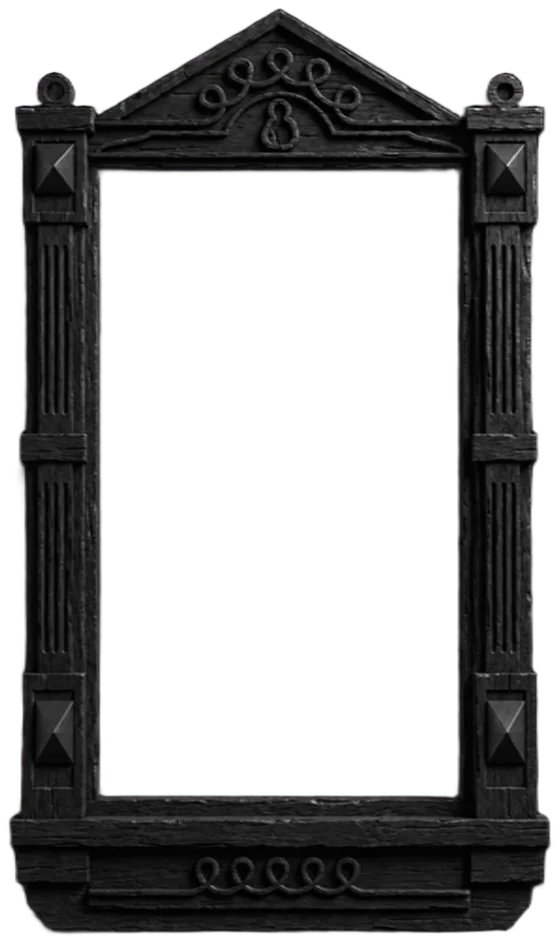
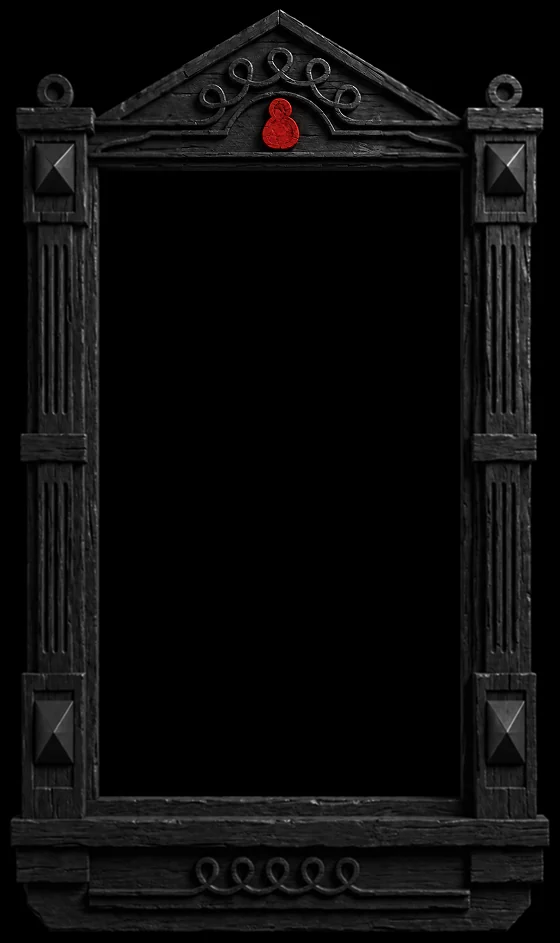
Ба: новый наличник и подпись, подписи у круга после узора, ветер вокруг цитаты

diff --git a/shh-creative/ba.html b/shh-creative/ba.html
@@ -631,14 +631,89 @@ window.addEventListener('message',function(e){if(!e.data||!e.data.lang)return;us
     #rec-ba-quote { padding: 90px 20px; }
     #rec-ba-quote .q-author { margin-top: 28px; }
   }
+
+  /* ── Ветер над цитатой и под ней ──
+     Тонкие красные линии с петлями — те же завихрения, что в узоре и на наличнике.
+     Анимация как trim path: по линии пролетает отрезок — вырастает,
+     скользит и сходит на нет. pathLength="1" делает длины в dasharray
+     долями пути, поэтому одни ключевые кадры годятся для любой линии.
+     Порывы разной длины и с разными паузами, чтобы не шли в ногу.
+     Крутится только пока секция в кадре (класс wind-on вешает скрипт). */
+  #rec-ba-quote { position: relative; overflow: hidden; }
+  #rec-ba-quote .q-wind {
+    position: absolute;
+    left: 0;
+    width: 100%;
+    height: auto;
+    pointer-events: none;
+    /* к краям линии растворяются: порыв приходит из-за экрана */
+    -webkit-mask-image: linear-gradient(90deg, transparent, #000 14%, #000 86%, transparent);
+            mask-image: linear-gradient(90deg, transparent, #000 14%, #000 86%, transparent);
+  }
+  #rec-ba-quote .q-wind-top { top: -12px; }
+  #rec-ba-quote .q-wind-bot { bottom: -12px; }
+  #rec-ba-quote .q-wind path {
+    fill: none;
+    stroke: #e42322;
+    stroke-opacity: 0.85;
+    stroke-width: 1.2;
+    stroke-linecap: round;
+    vector-effect: non-scaling-stroke;
+    stroke-dasharray: 0 1.5;
+    opacity: 0;
+  }
+  #rec-ba-quote.wind-on .q-wind path {
+    animation: baGust 12s cubic-bezier(0.45, 0.05, 0.35, 1) infinite;
+  }
+  #rec-ba-quote.wind-on .q-wind path:nth-child(1) { animation-duration: 11s;  animation-delay: 0.3s; }
+  #rec-ba-quote.wind-on .q-wind path:nth-child(2) { animation-duration: 13s;  animation-delay: 3.2s; }
+  #rec-ba-quote.wind-on .q-wind-bot path:nth-child(1) { animation-duration: 12s;  animation-delay: 5.4s; }
+  #rec-ba-quote.wind-on .q-wind-bot path:nth-child(2) { animation-duration: 14s;  animation-delay: 1.8s; }
+  /* порыв занимает первые 60% цикла, остальное — затишье */
+  @keyframes baGust {
+    0%   { stroke-dasharray: 0 1.5;    stroke-dashoffset: 0;  opacity: 0; }
+    6%   { opacity: 1; }
+    28%  { stroke-dasharray: 0.34 1.5; }
+    52%  { opacity: 1; }
+    60%  { stroke-dasharray: 0 1.5;    stroke-dashoffset: -1; opacity: 0; }
+    100% { stroke-dasharray: 0 1.5;    stroke-dashoffset: -1; opacity: 0; }
+  }
+  /* на телефоне линии шире экрана вдвое: иначе петли сжимаются в точки */
+  @media screen and (max-width: 768px) {
+    #rec-ba-quote { padding-top: 130px; padding-bottom: 130px; }
+    #rec-ba-quote .q-wind { width: 200%; left: -50%; }
+    #rec-ba-quote .q-wind-top { top: -8px; }
+    #rec-ba-quote .q-wind-bot { bottom: -8px; }
+  }
+  @media (prefers-reduced-motion: reduce) {
+    #rec-ba-quote .q-wind { display: none; }
+  }
 </style>
 
+<svg class="q-wind q-wind-top" viewBox="0 0 1200 180" aria-hidden="true">
+  <path pathLength="1" d="M-20,110 C180,100 300,70 430,78 C540,85 590,128 548,140 C505,152 488,100 540,84 C640,54 820,96 960,82 C1060,72 1140,60 1220,64"/>
+  <path pathLength="1" d="M-20,60 C150,52 280,40 400,50 C520,60 640,86 760,74 C860,64 880,30 850,24 C818,18 806,52 842,62 C930,86 1080,58 1220,70"/>
+</svg>
 <figure class="q-wrap">
   <p class="q-text ba-fx">
     <span class="lang-ru">«Ищи меня, свищи<br />в ночи густой как щи».</span><span class="lang-en">“Look for me, whistle for me<br />in a night as thick as shchi.”</span>
   </p>
   <figcaption class="q-author ba-fx">— Хаски</figcaption>
 </figure>
+<svg class="q-wind q-wind-bot" viewBox="0 0 1200 180" aria-hidden="true">
+  <path pathLength="1" d="M-20,50 C120,58 240,80 360,72 C430,67 452,34 426,28 C398,22 386,58 420,70 C520,104 700,90 880,96 C1000,100 1120,84 1220,88"/>
+  <path pathLength="1" d="M-20,120 C160,126 320,110 480,116 C640,122 740,146 880,134 C960,127 990,100 964,92 C936,84 922,118 958,128 C1040,150 1140,124 1220,118"/>
+</svg>
+<script>
+(function () {
+  // ветер дует, только пока цитата на экране
+  var sec = document.getElementById('rec-ba-quote');
+  if (!sec || !window.IntersectionObserver) { if (sec) sec.classList.add('wind-on'); return; }
+  new IntersectionObserver(function (en) {
+    sec.classList.toggle('wind-on', en[0].isIntersecting);
+  }).observe(sec);
+})();
+</script>
 </div> <div id="rec-ba-elements" class="r t-rec" style=" " data-animationappear="off">
 <style>
   /* Рендеры визиток и меню на тёмном — исходники с прозрачным фоном,
@@ -736,6 +811,9 @@ window.addEventListener('message',function(e){if(!e.data||!e.data.lang)return;us
     width: 280px;
     max-width: 100%;
     margin: 110px auto 0;
+    /* рендер на чистом чёрном, а секция чуть светлее (#0a0a0a):
+       lighten растворяет чёрную подложку в фоне, наличник не трогает */
+    mix-blend-mode: lighten;
   }
   /* подпись под наличником: та же, что у круга, только по центру */
   #rec-ba-elements .el-note-nal {
@@ -839,9 +917,9 @@ window.addEventListener('message',function(e){if(!e.data||!e.data.lang)return;us
   }
 </style>
 <div class="el-orn">
-  <p class="el-note el-note-l ba-fx"><span class="lang-ru"><b>Петля</b> — из&nbsp;резьбы русских наличников</span><span class="lang-en"><b>The loop</b> — from the&nbsp;carving of&nbsp;Russian window frames</span></p>
+  <p class="el-note el-note-l"><span class="lang-ru"><b>Петля</b> — из&nbsp;резьбы русских наличников</span><span class="lang-en"><b>The loop</b> — from the&nbsp;carving of&nbsp;Russian window frames</span></p>
   <img class="el-circle ba-fx-fade" src="media/ba-uzor-circle.svg" alt="" width="509" height="512" loading="lazy" decoding="async" />
-  <p class="el-note el-note-r ba-fx"><span class="lang-ru"><b>Круг</b> — как&nbsp;энсо, дзенский знак пустоты и&nbsp;полноты</span><span class="lang-en"><b>The circle</b> — like ens&#333;, the&nbsp;Zen sign of&nbsp;emptiness and&nbsp;fullness</span></p>
+  <p class="el-note el-note-r"><span class="lang-ru"><b>Круг</b> — как&nbsp;энсо, дзенский знак пустоты и&nbsp;полноты</span><span class="lang-en"><b>The circle</b> — like ens&#333;, the&nbsp;Zen sign of&nbsp;emptiness and&nbsp;fullness</span></p>
 </div>
 
 <div class="el-row">
@@ -873,8 +951,8 @@ window.addEventListener('message',function(e){if(!e.data||!e.data.lang)return;us
   </div>
   <img class="el-flag ba-fx" src="media/ba-flag.webp" alt="" width="1400" height="1400" loading="lazy" decoding="async" />
 </div>
-<img class="el-nalichnik ba-fx" src="media/ba-nalichnik.webp" alt="" width="560" height="943" loading="lazy" decoding="async" />
-<p class="el-note el-note-nal ba-fx"><span class="lang-ru"><b>Наличник × якисуги</b><br />Русская резьба, обожжённая по-японски: огонь делает дерево чёрным и&nbsp;бережёт его от&nbsp;воды, гнили и&nbsp;времени.</span><span class="lang-en"><b>Nalichnik × yakisugi</b><br />Russian carving, charred the&nbsp;Japanese way: fire turns the&nbsp;wood black and&nbsp;guards it against water, rot and&nbsp;time.</span></p>
+<img class="el-nalichnik ba-fx" src="media/ba-nalichnik.webp?v=3" alt="" width="560" height="943" loading="lazy" decoding="async" />
+<p class="el-note el-note-nal ba-fx"><span class="lang-ru"><b>Наличник × якисуги</b><br />Русская резьба +&nbsp;дерево, обожжённое по-японски.</span><span class="lang-en"><b>Nalichnik × yakisugi</b><br />Russian carving +&nbsp;wood charred the&nbsp;Japanese way.</span></p>
 </div> <style>
   /* ── Появление по прокрутке для узора, круга, ряда и тарелок ──
      Классы ba-fx / ba-fx-fade расставлены в разметке, но прячут элемент
@@ -898,11 +976,30 @@ window.addEventListener('message',function(e){if(!e.data||!e.data.lang)return;us
   }
   /* визитки выходят следом за меню, а не одновременно */
   .ba-fx-on .el-buscard { transition-delay: 0.18s; }
+  /* Подписи у круга не следят за прокруткой сами: их ведёт круг (скрипт
+     вешает is-in на .el-orn вместе с ним). Сначала проявляется круг,
+     потом левая подпись, за ней правая. Гаснут сразу, без задержки. */
+  .ba-fx-on #rec-ba-elements .el-orn .el-note {
+    opacity: 0;
+    transform: translateY(12px);
+    transition: opacity 0.4s ease, transform 0.4s ease;
+  }
+  .ba-fx-on #rec-ba-elements .el-orn.is-in .el-note {
+    opacity: 0.75;
+    transform: none;
+    transition: opacity 0.8s ease 0.75s, transform 0.8s ease 0.75s;
+  }
+  .ba-fx-on #rec-ba-elements .el-orn.is-in .el-note-r { transition-delay: 1.05s; }
 
   @media (prefers-reduced-motion: reduce) {
     .ba-fx-on .ba-fx,
     .ba-fx-on .ba-fx-fade {
       opacity: 1;
+      transform: none;
+      transition: none;
+    }
+    .ba-fx-on #rec-ba-elements .el-orn .el-note {
+      opacity: 0.75;
       transform: none;
       transition: none;
     }
@@ -1392,6 +1489,10 @@ alt='' imgfield='tn_img_1752706337385'
       // класс и вешается, и снимается: уходя из кадра элемент гаснет и
       // проявится снова, когда вернётся
       e.target.classList.toggle('is-in', e.isIntersecting);
+      // круг заодно ведёт свои подписи
+      if (e.target.classList.contains('el-circle')) {
+        e.target.parentNode.classList.toggle('is-in', e.isIntersecting);
+      }
     });
     // Поля сужают рабочую полосу экрана с обеих сторон. Снизу — чтобы
     // элемент не проявлялся в момент, когда только показался из-за края,

diff --git a/projects/ba.html b/projects/ba.html
@@ -1,1 +1,1 @@
-<iframe src="shh-creative/ba.html?v=20260927-5" class="project-iframe" frameborder="0"></iframe>
+<iframe src="shh-creative/ba.html?v=20260929-2" class="project-iframe" frameborder="0"></iframe>
